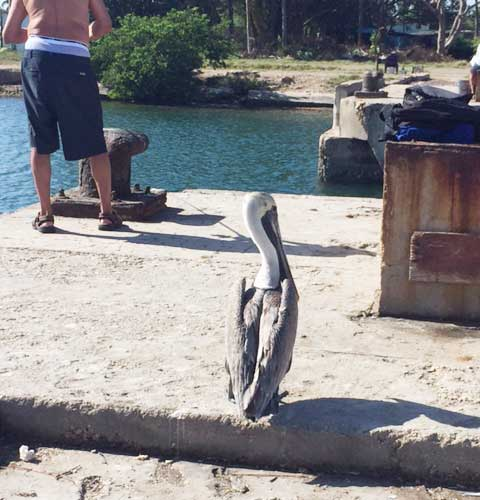
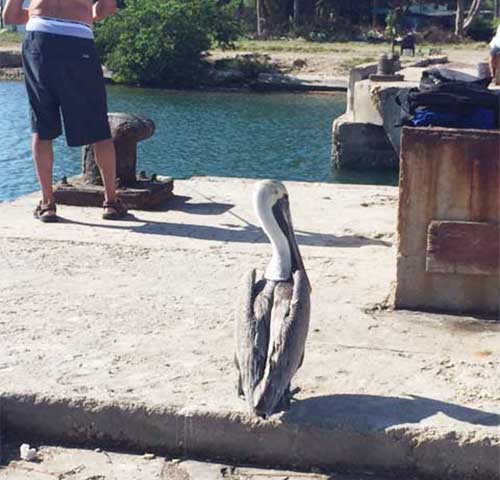
updates

diff --git a/unit_8/index.html b/unit_8/index.html
@@ -31,34 +31,36 @@
 		</div>
 
 		<div id="secondentry">
-			<img src="images/insularSM.jpg" class="photo">
-			<p><span class="number">INSULAR</span> Like a revolving door, everything goes in circle. <span class="italic">Circular water</span> see Virgilio Piñera <span id="More-Insular"> More</span></p>
+			<img src="images/insularSQ.jpg" class="photo">
+			<p><span class="number">INSULAR</span> </p>
+			<p>Like a revolving door, everything goes in circle. <span class="italic">Circular water</span> <a ref="http://www.jotdown.es/2012/11/virgilio-pinera-y-el-agua-por-todas-partes/" class="link">(see Virgilio Piñera)</a><span id="More-Insular"> More</span></p>
 		</div>
 		
 		<div id="thirdentry">
-			<img src="images/survivalSM.jpg" class="photo">
-				<p><span class="number">SURVIVAL</span> Is it fundamental to our survival the idea that things ARE?<span id="More-Survival"> More</span></p></p>
+			<img src="images/survivalSQ.jpg" class="photo">
+				<p><span class="number">SURVIVAL</span></p>
+				<p>Is it fundamental to our survival the idea that things ARE?<span id="More-Survival"> More</span></p></p>
 		</div>
 	</section>
 
 	<section class="clearfix">
 		<div id="longEntry">
 			<h3>CREATE AN EXPERIENCE</h3>
-			<p>Is that what everything will come to? The Cuban Experience. How many things are exportable? The warmth? the innocense? the vitality of survival? Are people really that blind? Or is it just a complete lack of reference? Are we karmical condemned to TRADE? The new conquistadores.</p>
+			<p>Is that what everything comes down to? The Cuban Experience. How many things are exportable? The warmth? the innocense? the vitality of survival? Are people really that blind? Or is it just a complete lack of reference? Are we karmical condemned to TRADE? The new conquistadores. AirBnB offers "Experiences".</p>
 		</div>
 	</section> 
 
 	<section class="clearfix">
 		<div id="fifthentry">
-			<img src="url here">
-			<h4>SWEET YEMAYA</h4>
+			<img src="images/yemayaSQ.jpg" class="photo">
+			<p><span class="number">SWEET YEMAYA</span></p>
 			<p>The blue <span>Mother Yemayá</span> presents herself in the sweetest tones. The most seductive combination of sea, sand and sky. Mis respetos. Mis recuerdos. Mi amor.</p>
 		</div>
 		
 		<div id="sixthentry">
-			<img src="url here">
-			<h4>VIBRATIONS</h4>
-			<p>Is it the music? is it the swing of people's walk? is it the tempo or those smiles? the motors. the smoke. the open pipes on the streets. The roosters everywhere. THe yuxtaposition of living creatures, no boundaries whatsoever.</p>
+			<img src="images/vibrationsSQ.jpg" class="photo">
+			<p><span class="number">VIBRATIONS</span></p>
+			<p>Is it the music? is it the swing of people's walk? is it the tempo or those smiles? the motors. the smoke. the open pipes on the streets. The roosters everywhere. The yuxtaposition of living creatures, no boundaries whatsoever. The melting pot.</p>
 		</div>
 	</section>
 </main>
@@ -67,8 +69,8 @@
 		<nav class="clearfix">
 			<a href="#">photos</a>
 			<a href="#">email</a>
-			<a href="#">tk</a>
-			<a href="#">more</a>
+			<a href="#">home</a>
+			<a href="#">world</a>
 		</nav>
 
 	</footer>

diff --git a/unit_8/css/style.css b/unit_8/css/style.css
@@ -73,6 +73,12 @@ article{
 	margin-right: 0.5em;
 
 }
+.link{
+	text-transform: italic;
+	color: blue;
+	background-color: none
+	border: none;
+}
 p{
 	font-family: 'Open Sans';
 }
@@ -91,21 +97,21 @@ section div {
 }
 #longEntry{
 	width: 100%;
-	border-top: 2px solid black;
-	border-bottom: 2px solid black;
+	border-top: 0.7em solid black;
+	border-bottom: 0.7em solid black;
 	padding: 1em;
-	margin: 4px;
+	margin: 0.5em;
+	text-align: center;
 }
 
 #firstentry{
 	border-right: 2px solid black;
 }
+
 .photo{
 	width: 100%;
 }
-/*#secondentry{
 
-}*/
 
 #thirdentry{
 	border-left: 2px solid black;
@@ -113,7 +119,7 @@ section div {
 }
 #firstentry, #secondentry, #thirdentry {
 	float: left;
-	padding: 0.8em;
+	padding: 0.5em;
 }
 
 .number{
@@ -131,21 +137,20 @@ h3{
 	font-weight: bold;
 }
 
-h4{
-	font-size: 4em;
-}
 
 #longEntry{
-	margin-top: .4em;
-	border-top: 2px solid black;
+	margin: auto;
+	border-top: 4px solid black;
+	background-color: rgb(239, 235, 220);
+	width: 100%;
 }
  
 #fifthentry, #sixthentry{
 	float: left;
-	width: 48%;
+	width: 45%;
 }
 
-#sixthentry d{
+#sixthentry {
 	border-left: 2px solid black;
 }
 
@@ -211,8 +216,8 @@ a {
 	width: 25%;
 	padding: 0.5em;
 	float: left;
-	background-color: #33ddff;
-	border: 0.2em solid rgba(25, 24, 198, .5);
+	background-color: #FFBF89;
+	border: 0.2em solid rgba(237, 47, 15, .5);
 	}
 
 a:hover{

diff --git a/unit_9/index.html b/unit_9/index.html
@@ -1,0 +1,30 @@
+<!DOCTYPE html>
+
+<html>
+  <head>
+  <title>My Now Amazing Webpage</title>
+  <link rel="stylesheet" type="text/css" href="slick/slick.css"/>
+  <link rel="stylesheet" type="text/css" href="slick/slick-theme.css"/>
+  </head>
+  <body>
+
+  <div class="heroes">
+    <div>your content</div>
+    <div>your content</div>
+    <div>your content</div>
+  </div>
+
+  <script type="text/javascript" src="//code.jquery.com/jquery-1.11.0.min.js"></script>
+  <script type="text/javascript" src="//code.jquery.com/jquery-migrate-1.2.1.min.js"></script>
+  <script type="text/javascript" src="slick/slick.min.js"></script>
+
+  <script type="text/javascript">
+    $(document).ready(function(){
+      $('.your-class').slick({
+        setting-name: setting-value
+      });
+    });
+  </script>
+
+  </body>
+</html>
